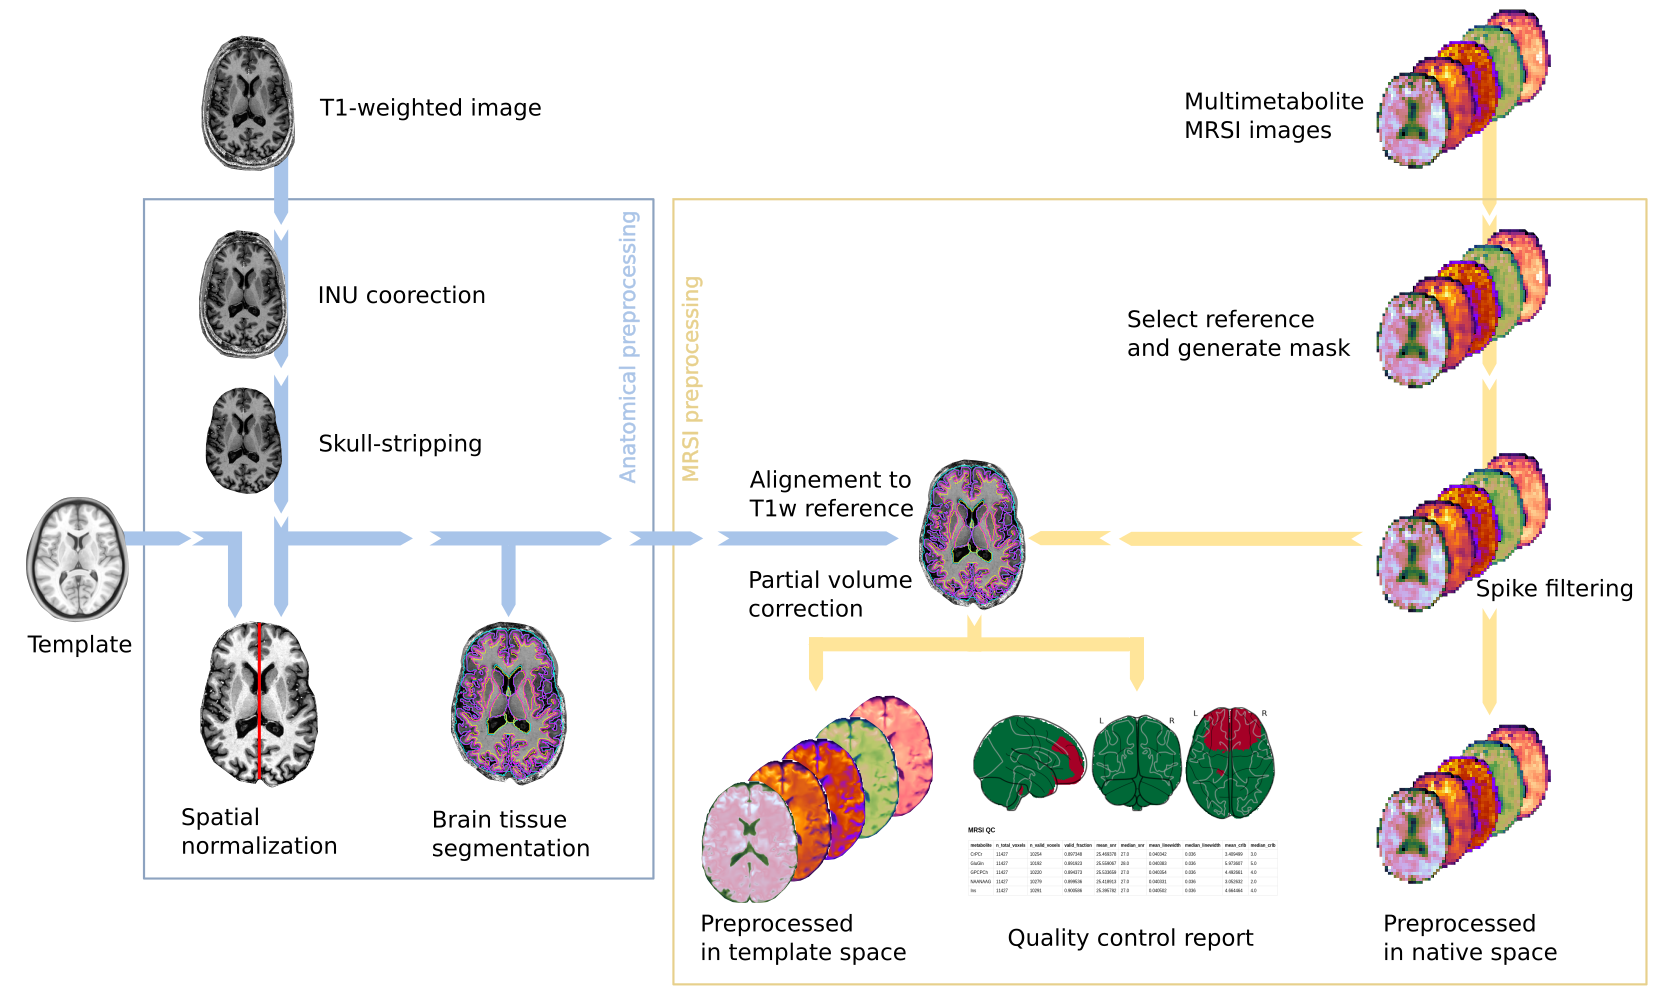
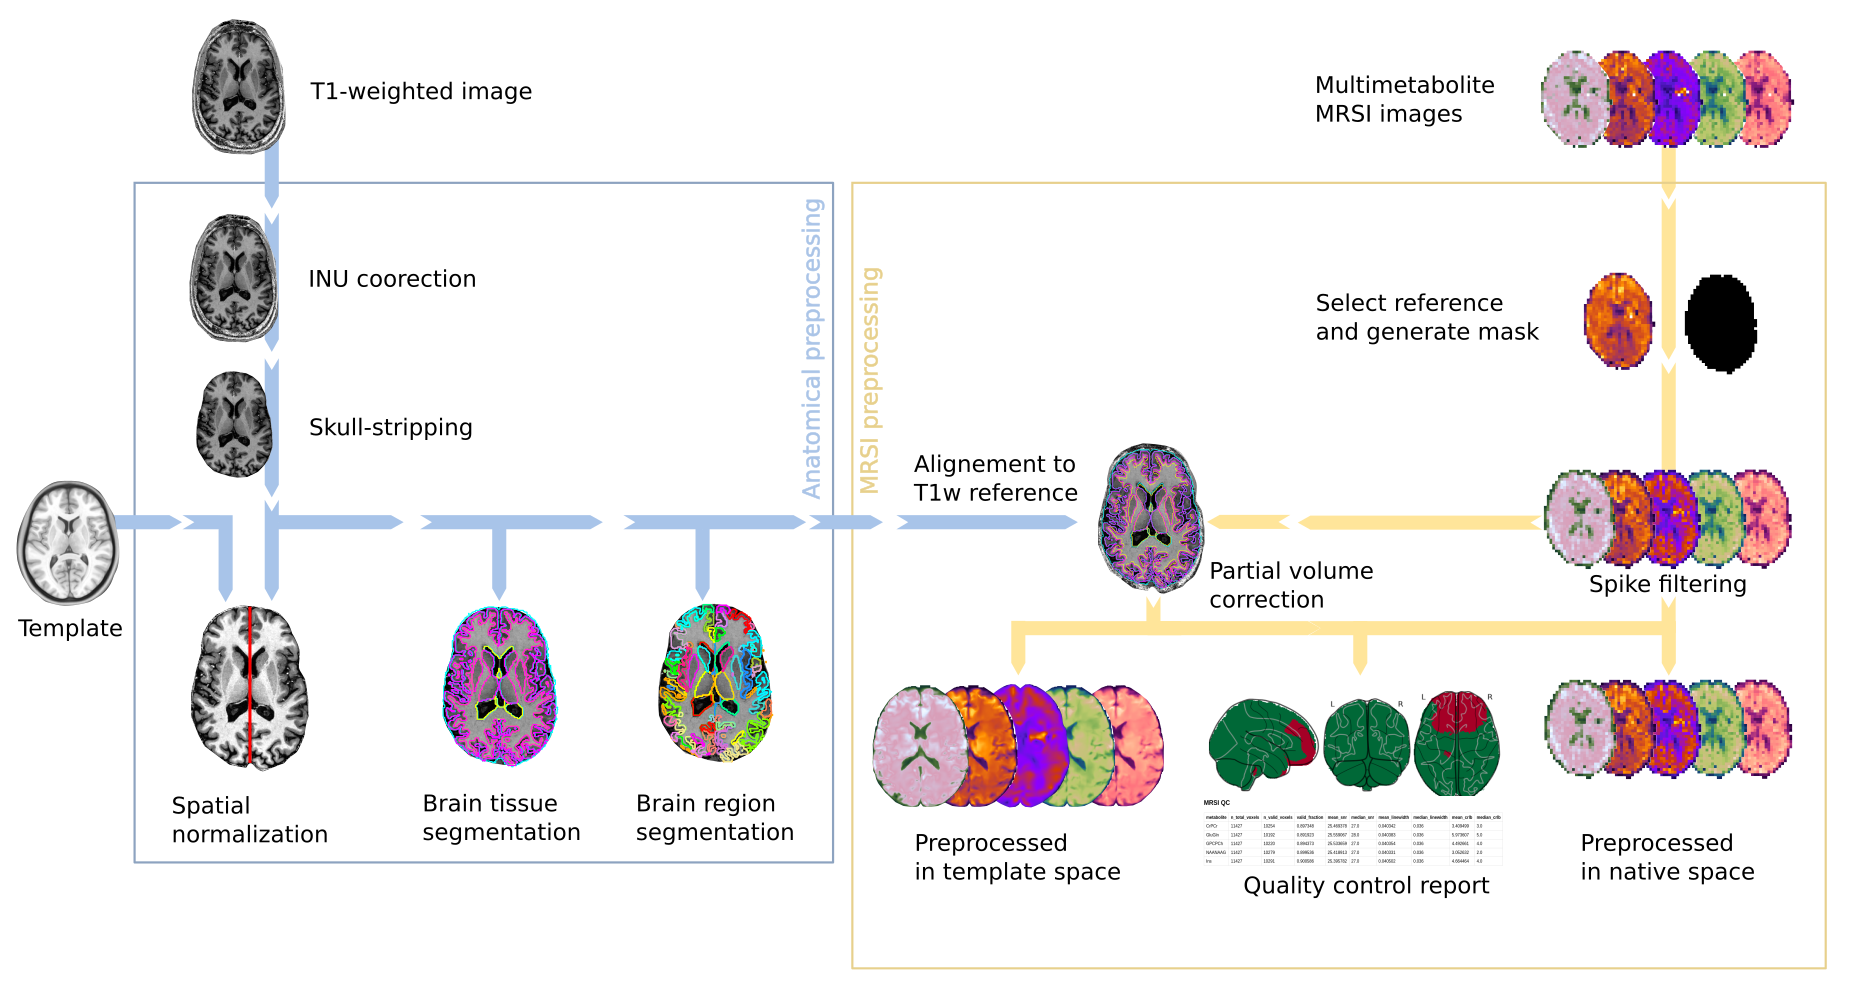
Always run biharmonic filtering and PVC in mni-norm; fix native map copies; update pipeline schematic

Changed region(s): [[0.0, 0.0, 0.994, 0.9871]]

diff --git a/mrsiprep/workflows/mrsi.py b/mrsiprep/workflows/mrsi.py
@@ -2,6 +2,7 @@
 
 from __future__ import annotations
 
+import shutil
 from dataclasses import dataclass
 from pathlib import Path
 
@@ -28,26 +29,37 @@ class MRSIResult:
     qc_summary: Path
 
 
-def _symlink_quality_maps(config, subject: str, session: str | None, inputs: MRSIInputs) -> None:
-    links: list[tuple[Path | None, dict]] = [(inputs.snr_map, {"desc": "snr"}), (inputs.linewidth_map, {"desc": "fwhm"})]
+def _copy_native_maps(config, subject: str, session: str | None, inputs: MRSIInputs) -> None:
+    """Copy (not symlink) raw/quality maps into the mrsi/orig derivatives tree.
+
+    A symlink written from inside a container would encode a path relative
+    to the container's own mount layout (e.g. separate `/data` and `/out`
+    bind mounts), which has no reliable relationship to the host filesystem
+    outside the container -- the link would dangle there even though the
+    source file exists. Copying these small maps avoids that.
+    """
+    links: list[tuple[Path | None, dict, str]] = [
+        (inputs.snr_map, {"desc": "snr"}, "orig"),
+        (inputs.linewidth_map, {"desc": "fwhm"}, "orig"),
+    ]
     for met, path in inputs.crlb_maps.items():
-        links.append((path, {"met": met, "desc": "crlb"}))
-    for source, entities in links:
+        links.append((path, {"met": met, "desc": "crlb"}, "orig"))
+    for met, path in inputs.metabolite_maps.items():
+        links.append((path, {"met": met, "desc": "signal"}, "mrsi"))
+    for source, entities, space in links:
         if source is None or not source.exists():
             continue
-        target = mrsi_derivative(config.derivative_dir, subject, session, space="orig", suffix_override="mrsi", **entities)
+        target = mrsi_derivative(config.derivative_dir, subject, session, space=space, suffix_override="mrsi", **entities)
         target.parent.mkdir(parents=True, exist_ok=True)
         if target.is_symlink() or target.exists():
             target.unlink()
-        target.symlink_to(source.resolve())
+        shutil.copy2(source, target)
 
 
 def run_mrsi_workflow(config, subject: str, session: str | None, inputs: MRSIInputs) -> MRSIResult:
-    _symlink_quality_maps(config, subject, session, inputs)
+    _copy_native_maps(config, subject, session, inputs)
     brainmask = ensure_brainmask(config, subject, session, inputs.brainmask, inputs.water_map, inputs.metabolite_maps)
-    preproc = inputs.metabolite_maps
-    if config.processing_mode == "parc-con":
-        preproc = filter_metabolite_maps(config, subject, session, inputs.metabolite_maps, brainmask)
+    preproc = filter_metabolite_maps(config, subject, session, inputs.metabolite_maps, brainmask)
     reference = generate_reference(config, subject, session, preproc, preferred_met=config.ref_met)
     qcmasks, qc_summary = make_quality_masks(
         config,

diff --git a/mrsiprep/mrsi/filtering.py b/mrsiprep/mrsi/filtering.py
@@ -35,7 +35,7 @@ def filter_metabolite_maps(config, subject: str, session: str | None, metabolite
         img, data = load_3d_data(path, dtype=np.float32, label=f"{met} map")
         data = np.nan_to_num(data, nan=0.0)
         spike_mask = get_spike_mask(data, percentile=config.spike_percentile)
-        repaired, missing = biharmonic_repair(data, brain, spike_mask, img.header, img.affine)
+        repaired, missing = biharmonic_repair(data, brain, spike_mask, img.header, img.affine, fwhm_mm=config.filter_fwhm_mm)
         filtered[met] = save_nifti(repaired.astype(np.float32), img, out, dtype=np.float32)
         spike_out = mrsi_derivative(config.derivative_dir, subject, session, space="MRSI", met=met, desc="spikemask", suffix_override="mask")
         save_nifti(spike_mask.astype(np.uint8), img, spike_out, dtype=np.uint8)
@@ -50,13 +50,16 @@ def get_spike_mask(data: np.ndarray, percentile: float = 99.0) -> np.ndarray:
     return data > threshold
 
 
-def biharmonic_repair(data: np.ndarray, brain: np.ndarray, spike_mask: np.ndarray, header, affine: np.ndarray) -> tuple[np.ndarray, np.ndarray]:
+def biharmonic_repair(
+    data: np.ndarray, brain: np.ndarray, spike_mask: np.ndarray, header, affine: np.ndarray, fwhm_mm: float | None = None
+) -> tuple[np.ndarray, np.ndarray]:
     """Two-stage spike repair matching ``BiHarmonic.proc``.
 
     1. Replace spikes with a local 3x3x3 median (excluding the center voxel).
     2. Biharmonic-inpaint voxels that are still zero inside the brain mask.
-    3. Smooth with FWHM derived from the image's own voxel size, splicing the
-       smoothed values back in only at repaired locations.
+    3. Smooth with FWHM ``fwhm_mm`` (or, when unset, the native MRSI voxel
+       size), splicing the smoothed values back in only at repaired
+       locations.
     """
     unspiked = _inpaint_voxels_with_median(data, spike_mask)
     missing = np.zeros_like(unspiked, dtype=bool)
@@ -66,8 +69,11 @@ def biharmonic_repair(data: np.ndarray, brain: np.ndarray, spike_mask: np.ndarra
         defect = unspiked.copy()
         defect[missing] = 0
         inpainted = inpaint_biharmonic(defect, missing)
-    voxel_dims = np.array(header.get_zooms()[:3])
-    fwhm = float(np.round(voxel_dims.mean() * np.sqrt(2)))
+    if fwhm_mm is not None:
+        fwhm = float(fwhm_mm)
+    else:
+        voxel_dims = np.array(header.get_zooms()[:3])
+        fwhm = float(np.round(voxel_dims.mean() * np.sqrt(2)))
     smoothed = nil_image.smooth_img(nib.Nifti1Image(inpainted.astype(np.float32), affine), fwhm=fwhm).get_fdata()
     inpaint_mask = spike_mask | missing
     repaired = inpainted.copy()

diff --git a/mrsiprep/workflows/participant.py b/mrsiprep/workflows/participant.py
@@ -362,10 +362,13 @@ def _step_tissue_segmentation(config, subject, session, raw_t1, t1_path, debug):
     brain_mask_override = None
     with debug.step("Tissue segmentation"):
         if config.processing_mode == "mni-norm":
-            synthseg_brain, synthseg_mask = extract_t1_synthseg(config, subject, session, raw_t1)
+            if raw_t1 is None:
+                raise FileNotFoundError(f"Missing raw T1w required for SynthSeg+FAST segmentation: sub-{subject} ses-{session}")
+            precomputed_tissue_t1 = segment_t1_synthseg_fast(config, subject, session, raw_t1)
+            p3_override = synthseg_fast_csf_probseg_path(config, subject, session)
             if config.registration_t1_target == "brain":
-                t1_path = synthseg_brain
-                brain_mask_override = synthseg_mask
+                t1_path = synthseg_fast_brain_path(config, subject, session)
+                brain_mask_override = synthseg_fast_brain_mask_path(config, subject, session)
         elif config.processing_mode == "midas":
             if raw_t1 is None:
                 raise FileNotFoundError(f"Missing raw T1w required for MIDAS fuzzy c-means segmentation: sub-{subject} ses-{session}")
@@ -404,7 +407,7 @@ def _step_registration(config, subject, session, mrsi, anat, debug, subject_temp
 
 
 def _step_tissue_probmaps(config, subject, session, anat, mrsi, registration, precomputed_tissue_t1, debug):
-    if config.processing_mode not in {"parc-con", "midas"}:
+    if config.processing_mode not in {"parc-con", "midas", "mni-norm"}:
         return None
     with debug.step("Tissue probability maps in MRSI space"):
         return run_tissue_workflow(
@@ -424,7 +427,7 @@ def _step_pvc(config, subject, session, mrsi, tissue, debug):
     mrsi.preproc_maps unchanged when full-mode PVC is not applicable."""
     corrected_maps = mrsi.preproc_maps
     tissue_4d = None
-    if config.processing_mode == "parc-con" and not config.no_pvc:
+    if config.processing_mode in {"parc-con", "mni-norm"} and not config.no_pvc:
         assert tissue is not None
         with debug.step("Partial volume correction"):
             tissue_4d = create_tissue_4d(config, subject, session, tissue.mrsi, mrsi.reference)

diff --git a/mrsiprep/cli/parser.py b/mrsiprep/cli/parser.py
@@ -145,7 +145,14 @@ def build_parser() -> argparse.ArgumentParser:
 
     processing_control = parser.add_argument_group("Workflow configuration")
     processing_control.add_argument("--transform", default="", help="Legacy output transform override; prefer --output-spaces.")
-    processing_control.add_argument("--no-filter", action="store_true")
+    processing_control.add_argument("--no-filter", action="store_true", help="Disable biharmonic spike filtering (enabled by default in every processing mode).")
+    processing_control.add_argument(
+        "--filter-fwhm-mm",
+        type=float,
+        default=None,
+        help="Smoothing FWHM (mm) used when splicing repaired biharmonic-filter voxels back in. "
+        "Default: derived from the native MRSI voxel size (mean voxel dimension x sqrt(2)).",
+    )
     processing_control.add_argument("--spikepc", type=float, default=99.0)
     processing_control.add_argument("--no-pvc", action="store_true")
     processing_control.add_argument(
@@ -246,6 +253,7 @@ def parse_args(argv: list[str] | None = None) -> MRSIPrepConfig:
         regional_summary=args.regional_summary,
         transform=args.transform,
         filter_biharmonic=not args.no_filter,
+        filter_fwhm_mm=args.filter_fwhm_mm,
         spike_percentile=args.spikepc,
         no_pvc=args.no_pvc,
         longitudinal=args.longitudinal,

diff --git a/mrsiprep/config/settings.py b/mrsiprep/config/settings.py
@@ -60,6 +60,7 @@ class MRSIPrepConfig:
     t1_pattern: str = "desc-brain_T1w"
     transform: str = ""
     filter_biharmonic: bool = True
+    filter_fwhm_mm: float | None = None
     spike_percentile: float = 99.0
     no_pvc: bool = False
     longitudinal: bool = False
@@ -129,8 +130,6 @@ class MRSIPrepConfig:
             raise ValueError("mni-norm supports SynthSeg brain or raw T1w registration targets.")
         if self.processing_mode == "parc-con" and self.parcellation_mode == "synthseg":
             raise ValueError("parc-con requires Chimera or MNI atlas parcellation.")
-        if self.processing_mode == "mni-norm":
-            self.no_pvc = True
         if self.processing_mode == "midas":
             # MIDAS mode's tissue correction is the per-parcel Eq. 4 regression,
             # not PETPVC RBV; the paper has no voxelwise PVC step. Fuzzy c-means

diff --git a/tests/test_cli.py b/tests/test_cli.py
@@ -17,7 +17,7 @@ class CLITests(unittest.TestCase):
         self.assertEqual(cfg.registration_t1_target, "brain")
         self.assertEqual(cfg.parcellation_mode, "synthseg")
         self.assertEqual(cfg.synthseg_mode, "robust")
-        self.assertTrue(cfg.no_pvc)
+        self.assertFalse(cfg.no_pvc)
         self.assertEqual(cfg.participant_label, ["sub-S001"])
         self.assertEqual(cfg.tissue_backend, "synthseg-fast")
         self.assertEqual(cfg.derivative_dir, Path("/tmp/derivatives/mrsiprep"))